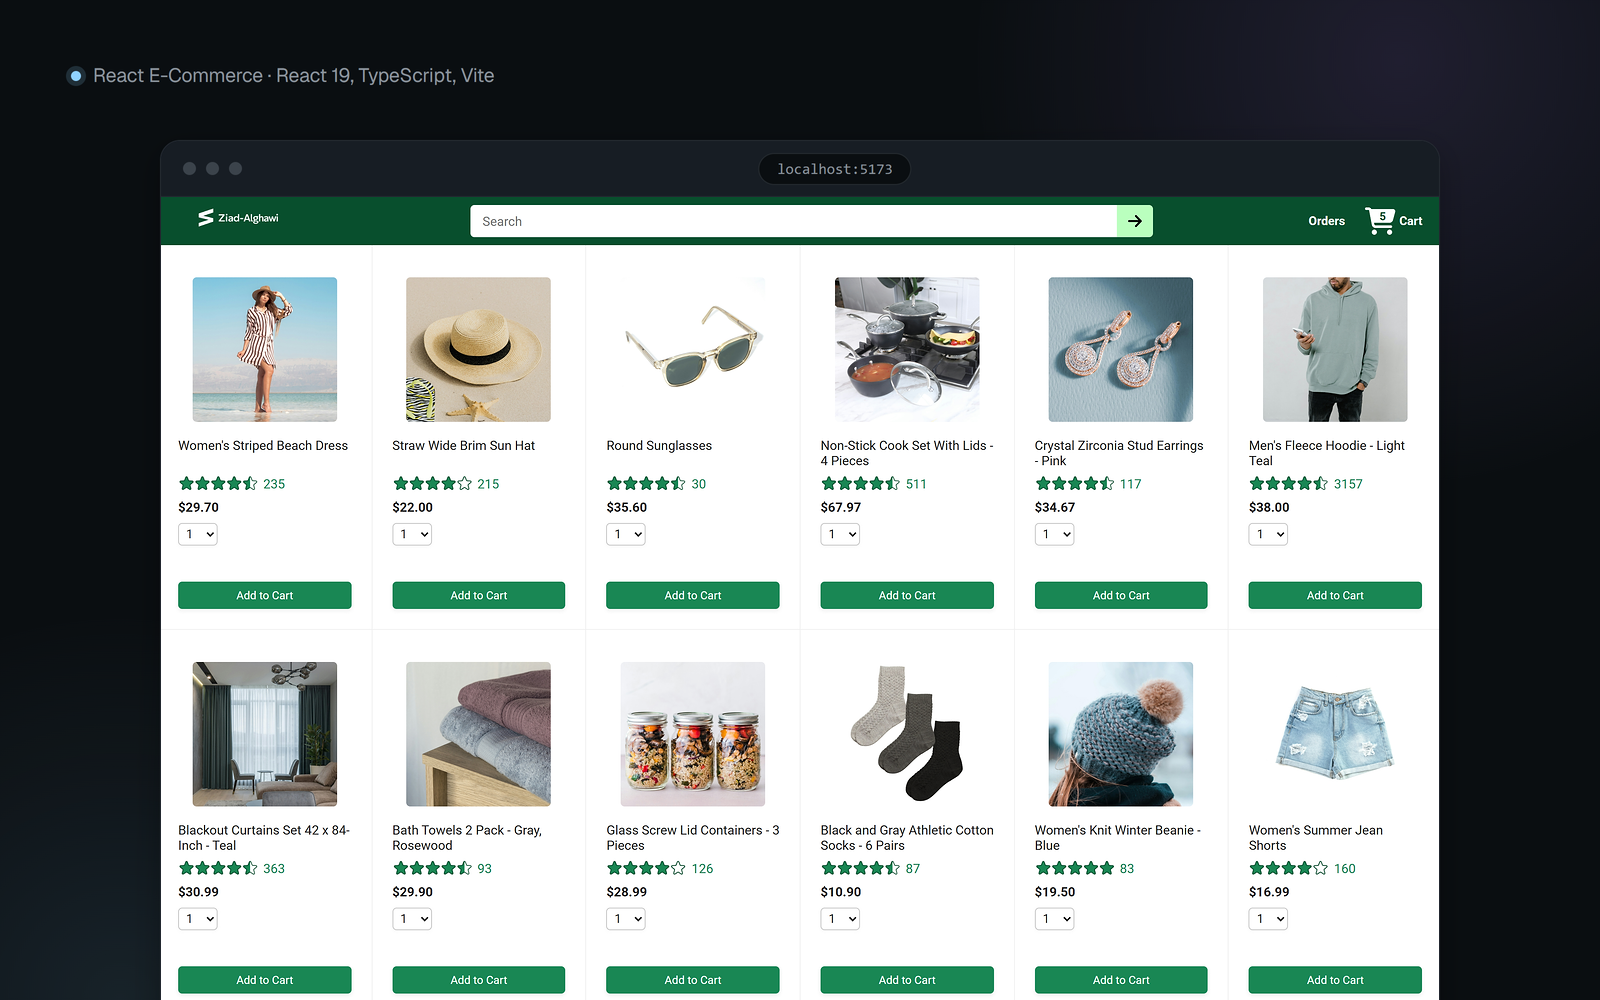
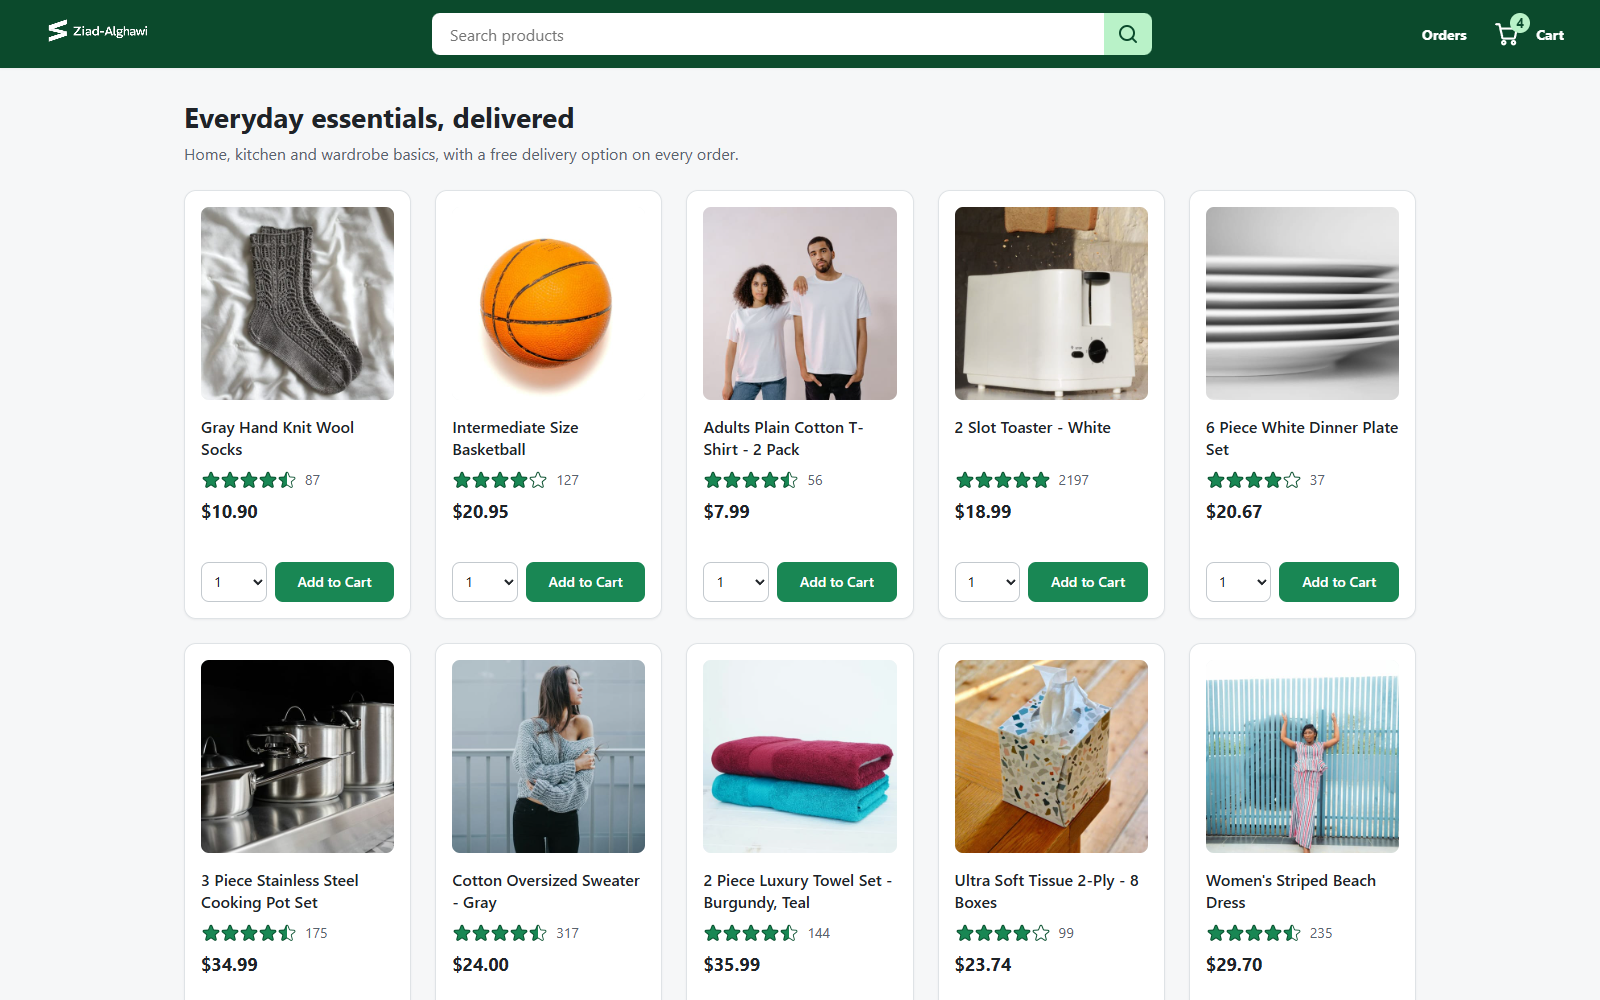
Share page and thumbnail styles and tidy leftovers from the redesign

diff --git a/src/pages/orders/OrdersPage.css b/src/pages/orders/OrdersPage.css
@@ -1,7 +1,5 @@
 .orders-page {
   max-width: 900px;
-  margin: 0 auto;
-  padding: var(--space-6) var(--space-5) var(--space-8);
 }
 
 .orders-page .orders-grid {
@@ -37,7 +35,7 @@
 
 .orders-page .order-product {
   display: grid;
-  grid-template-columns: 96px minmax(0, 1fr) auto;
+  grid-template-columns: auto minmax(0, 1fr) auto;
   gap: var(--space-5);
   align-items: start;
   padding: var(--space-5);
@@ -45,13 +43,6 @@
 
 .orders-page .order-product + .order-product {
   border-top: 1px solid var(--color-border);
-}
-
-.orders-page .order-product-image {
-  width: 96px;
-  height: 96px;
-  border-radius: var(--radius-md);
-  object-fit: cover;
 }
 
 .orders-page .product-name {
@@ -81,10 +72,6 @@
 }
 
 @media (max-width: 640px) {
-  .orders-page {
-    padding: var(--space-5) var(--space-4) var(--space-7);
-  }
-
   .orders-page .order-header {
     padding: var(--space-3) var(--space-4);
   }
@@ -95,14 +82,9 @@
   }
 
   .orders-page .order-product {
-    grid-template-columns: 72px minmax(0, 1fr);
+    grid-template-columns: auto minmax(0, 1fr);
     gap: var(--space-3) var(--space-4);
     padding: var(--space-4);
-  }
-
-  .orders-page .order-product-image {
-    width: 72px;
-    height: 72px;
   }
 
   .orders-page .track-package-button {

diff --git a/src/pages/checkout/CheckoutPage.css b/src/pages/checkout/CheckoutPage.css
@@ -1,7 +1,5 @@
 .checkout-page {
   max-width: 1100px;
-  margin: 0 auto;
-  padding: var(--space-6) var(--space-5) var(--space-8);
 }
 
 .checkout-page .checkout-grid {
@@ -34,15 +32,8 @@
 
 .checkout-page .cart-item-details-grid {
   display: grid;
-  grid-template-columns: 96px minmax(0, 1fr) minmax(0, 1fr);
+  grid-template-columns: auto minmax(0, 1fr) minmax(0, 1fr);
   gap: var(--space-5);
-}
-
-.checkout-page .product-image {
-  width: 96px;
-  height: 96px;
-  border-radius: var(--radius-md);
-  object-fit: cover;
 }
 
 .checkout-page .product-name {
@@ -166,7 +157,7 @@
   }
 
   .checkout-page .cart-item-details-grid {
-    grid-template-columns: 96px minmax(0, 1fr);
+    grid-template-columns: auto minmax(0, 1fr);
   }
 
   .checkout-page .delivery-options {
@@ -175,22 +166,12 @@
 }
 
 @media (max-width: 640px) {
-  .checkout-page {
-    padding: var(--space-5) var(--space-4) var(--space-7);
-  }
-
   .checkout-page .cart-item-container,
   .checkout-page .payment-summary {
     padding: var(--space-4);
   }
 
   .checkout-page .cart-item-details-grid {
-    grid-template-columns: 72px minmax(0, 1fr);
     gap: var(--space-4);
-  }
-
-  .checkout-page .product-image {
-    width: 72px;
-    height: 72px;
   }
 }

diff --git a/src/index.css b/src/index.css
@@ -51,11 +51,6 @@
   box-sizing: border-box;
 }
 
-/* Reserves the scrollbar's space, so the page doesn't shift sideways when it appears */
-html {
-  scrollbar-gutter: stable;
-}
-
 body {
   margin: 0;
   font-family: var(--font-family);
@@ -133,10 +128,22 @@ button, select {
   background-color: var(--color-brand);
 }
 
+.page {
+  margin: 0 auto;
+  padding: var(--space-6) var(--space-5) var(--space-8);
+}
+
 .page-title {
   margin: 0 0 var(--space-5);
   font-size: var(--font-size-2xl);
   line-height: 1.2;
+}
+
+.product-thumbnail {
+  width: 96px;
+  height: 96px;
+  border-radius: var(--radius-md);
+  object-fit: cover;
 }
 
 .card {
@@ -153,6 +160,15 @@ button, select {
 }
 
 @media (max-width: 640px) {
+  .page {
+    padding: var(--space-5) var(--space-4) var(--space-7);
+  }
+
+  .product-thumbnail {
+    width: 72px;
+    height: 72px;
+  }
+
   .page-title {
     font-size: var(--font-size-xl);
   }

diff --git a/src/pages/orders/OrderDetailsGrid.tsx b/src/pages/orders/OrderDetailsGrid.tsx
@@ -43,14 +43,13 @@ interface OrderDetailsGridProps {
 
 export function OrderDetailsGrid({ order, loadCart }: OrderDetailsGridProps) {
   return (
-    <div className="order-details-grid">
+    <div>
       {order.products.map((orderProduct) => (
         <div key={orderProduct.productId} className="order-product">
-          <img className="order-product-image" src={orderProduct.product.image}
+          <img className="product-thumbnail" src={orderProduct.product.image}
             alt={orderProduct.product.name} width="480" height="480" loading="lazy" />
 
-          <div className="product-details"
-            data-testid="order-product-details">
+          <div data-testid="order-product-details">
             <div className="product-name">
               {orderProduct.product.name}
             </div>

diff --git a/src/pages/TrackingPage.tsx b/src/pages/TrackingPage.tsx
@@ -33,7 +33,7 @@ function PackageTracking({ order, orderProduct }: PackageTrackingProps) {
       </h1>
 
       <div className="tracking-product">
-        <img className="product-image" src={orderProduct.product.image}
+        <img className="product-thumbnail" src={orderProduct.product.image}
           alt={orderProduct.product.name} width="480" height="480" />
         <div>
           <div className="product-name">{orderProduct.product.name}</div>
@@ -120,7 +120,7 @@ export function TrackingPage({ cart, onRetry }: TrackingPageProps) {
 
       <Header cart={cart} />
 
-      <main className="tracking-page">
+      <main className="tracking-page page">
         {pageContent}
       </main>
     </>

diff --git a/src/pages/TrackingPage.css b/src/pages/TrackingPage.css
@@ -1,7 +1,5 @@
 .tracking-page {
   max-width: 760px;
-  margin: 0 auto;
-  padding: var(--space-6) var(--space-5) var(--space-8);
 }
 
 .tracking-page .order-tracking {
@@ -25,13 +23,6 @@
   align-items: center;
   gap: var(--space-4);
   margin-bottom: var(--space-6);
-}
-
-.tracking-page .product-image {
-  width: 96px;
-  height: 96px;
-  border-radius: var(--radius-md);
-  object-fit: cover;
 }
 
 .tracking-page .product-name {
@@ -70,10 +61,6 @@
 }
 
 @media (max-width: 640px) {
-  .tracking-page {
-    padding: var(--space-5) var(--space-4) var(--space-7);
-  }
-
   .tracking-page .order-tracking {
     padding: var(--space-5) var(--space-4);
   }

diff --git a/src/pages/orders/OrderHeader.tsx b/src/pages/orders/OrderHeader.tsx
@@ -9,14 +9,14 @@ interface OrderHeaderProps {
 export function OrderHeader({ order }: OrderHeaderProps) {
   return (
     <div className="order-header">
-      <div className="order-date">
+      <div>
         <div className="order-header-label">Order placed</div>
         <div data-testid="order-date">
           {dayjs(order.orderTimeMs).format('MMMM D')}
         </div>
       </div>
 
-      <div className="order-total">
+      <div>
         <div className="order-header-label">Total</div>
         <div data-testid="order-total">
           {formatMoney(order.totalCostCents)}

diff --git a/src/pages/home/Product.tsx b/src/pages/home/Product.tsx
@@ -51,8 +51,7 @@ export function Product({ product, loadCart, lazyLoadImage = false }: ProductPro
       </h2>
 
       <div className="product-rating-container">
-        <img className="product-rating-stars"
-          data-testid="product-rating-stars-image"
+        <img data-testid="product-rating-stars-image"
           src={`images/ratings/rating-${product.rating.stars * 10}.png`}
           alt={`${product.rating.stars} out of 5 stars`}
           width="96" height="19" />

diff --git a/src/pages/home/HomePage.css b/src/pages/home/HomePage.css
@@ -1,7 +1,5 @@
 .home-page {
   max-width: 1280px;
-  margin: 0 auto;
-  padding: var(--space-6) var(--space-5) var(--space-8);
 }
 
 .home-intro {
@@ -109,10 +107,6 @@
 }
 
 @media (max-width: 520px) {
-  .home-page {
-    padding: var(--space-5) var(--space-4) var(--space-7);
-  }
-
   .home-page .products-grid {
     grid-template-columns: repeat(2, minmax(0, 1fr));
     gap: var(--space-3);

diff --git a/src/pages/home/HomePage.tsx b/src/pages/home/HomePage.tsx
@@ -75,7 +75,7 @@ export function HomePage({ cart, loadCart, onRetry }: HomePageProps) {
 
       <Header cart={cart} />
 
-      <main className="home-page">
+      <main className="home-page page">
         <div className="home-intro">
           <h1 className="page-title">
             {search ? `Results for "${search}"` : 'Everyday essentials, delivered'}

diff --git a/src/pages/checkout/CartItemDetails.tsx b/src/pages/checkout/CartItemDetails.tsx
@@ -60,7 +60,7 @@ export function CartItemDetails({ cartItem, deleteCartItem, loadCart }: CartItem
 
   return (
     <>
-      <img className="product-image"
+      <img className="product-thumbnail"
         src={cartItem.product.image} alt={cartItem.product.name}
         width="480" height="480"
         data-testid="cart-item-image" />

diff --git a/src/pages/checkout/CheckoutPage.tsx b/src/pages/checkout/CheckoutPage.tsx
@@ -81,7 +81,7 @@ export function CheckoutPage({ cart, cartStatus, loadCart, onRetry }: CheckoutPa
 
       <CheckoutHeader cart={cart} />
 
-      <main className="checkout-page">
+      <main className="checkout-page page">
         <h1 className="page-title">Review your order</h1>
 
         {pageContent}
